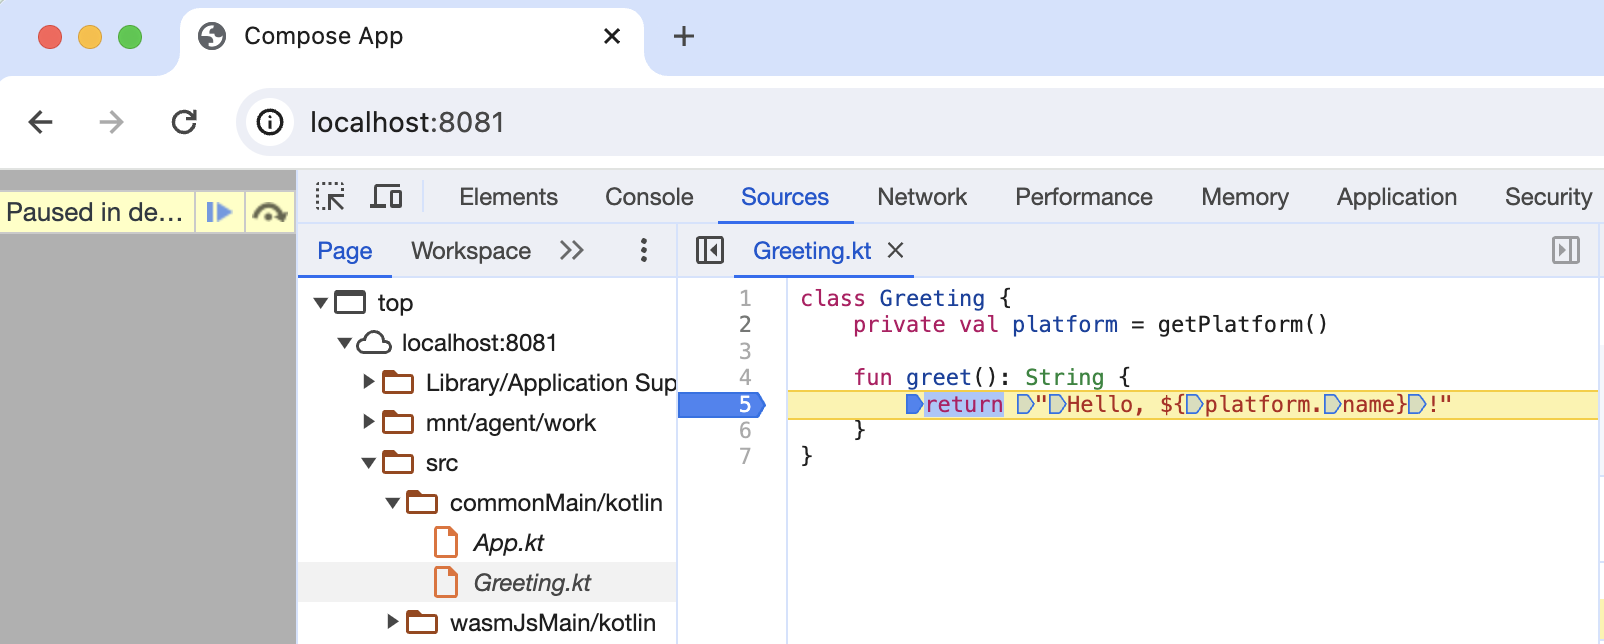
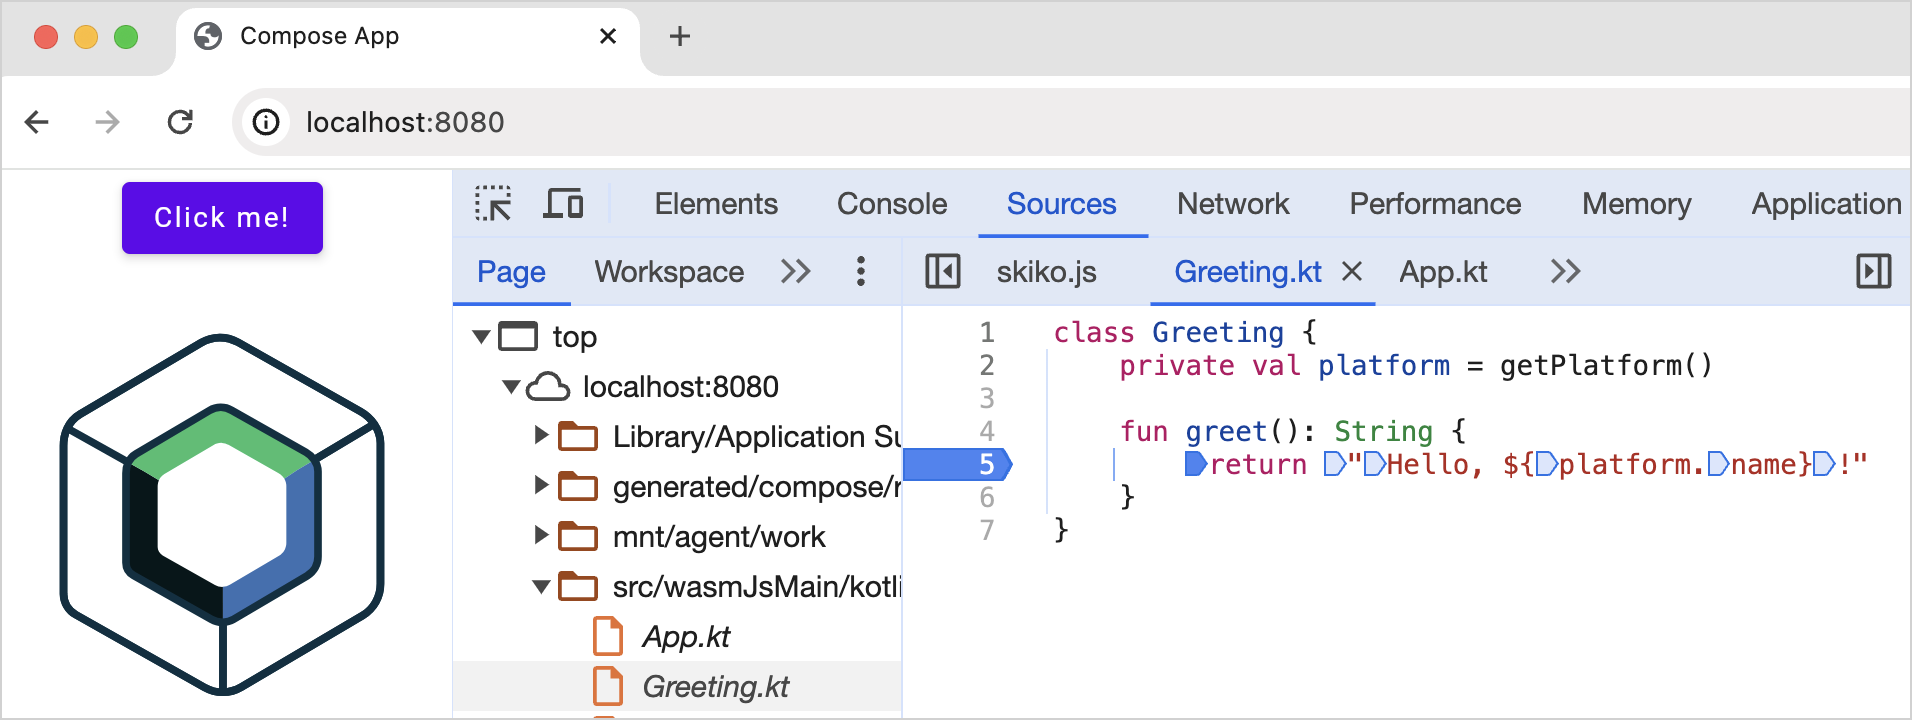
update: adding wizard to first section of debugging tutorial

Changed region(s): [[0.0, 0.0, 1.0, 1.0], [0.8105, 0.3727, 0.8416, 0.4037]]

diff --git a/docs/topics/wasm/wasm-debugging.md b/docs/topics/wasm/wasm-debugging.md
@@ -4,65 +4,60 @@
 >
 {type="note"}
 
-This tutorial demonstrates how to debug a web application built with Kotlin/Wasm, based on a 
-[Compose Multiplatform](https://www.jetbrains.com/lp/compose-multiplatform/) example from our 
-`kotlin-wasm-examples` [repository](https://github.com/Kotlin/kotlin-wasm-examples/tree/main).
+This tutorial demonstrates how to debug a [Compose Multiplatform](https://www.jetbrains.com/lp/compose-multiplatform/)
+application built with Kotlin/Wasm.
 
 ## Before you start
 
+Create a project using the Kotlin Multiplatform wizard:
+
+1. Open the [Kotlin Multiplatform wizard](https://kmp.jetbrains.com/#newProject).
+2. On the **New Project** tab, change the project name to "WasmDemo" and the project ID to "wasm.project.demo".
+3. Select the **Web** option.
+4. Click the **Download** button and unpack the resulting archive.
+
+![Kotlin Multiplatform wizard](wasm-compose-wizard.png){width=600}
+
+## Open the project in IntelliJ IDEA
+
 1. Download and install the latest version of [IntelliJ IDEA](https://www.jetbrains.com/idea/).
-2. Clone the [Kotlin/Wasm examples](https://github.com/Kotlin/kotlin-wasm-examples/) repository
-   by selecting **File** | **New** | **Project from Version Control** in IntelliJ IDEA.
-
-   You can also clone it from the command line:
-
-   ```bash
-   git clone git@github.com:Kotlin/kotlin-wasm-examples.git
-   ```
-
-> Alternatively, you can use our experimental [web wizard](https://kmp.jetbrains.com/) to download a sample project.
->
-{type="note"}
+2. On the Welcome screen of IntelliJ IDEA, click **Open** or select **File | Open** in the menu bar.
+3. Navigate to the unpacked "WasmDemo" folder and click **Open**.
 
 ## Run the application
 
-1. In IntelliJ IDEA, a **Gradle build scripts found** notification appears. Click **Load**. 
+1. In IntelliJ IDEA, open the **Gradle** tool window by selecting **View** | **Tool Windows** | **Gradle**.
 
-2. Open the **Gradle** tool window by selecting **View** | **Tool Windows** | **Gradle**.
-
-   > You need at least Java 11 as your Gradle JVM for the examples to load successfully.
+   > You need at least Java 11 as your Gradle JVM for the tasks to load successfully.
    >
    {type="note"}
 
-3. In **compose-example** | **Tasks** | **kotlin browser**, select and run the **wasmJsBrowserRun** task.
+2. In **composeApp** | **Tasks** | **kotlin browser**, select and run the **wasmJsBrowserRun** task.
 
-   ![Run the Gradle task](wasm-gradle-task-window.png){width=650}
+   ![Run the Gradle task](wasm-gradle-task-window.png){width=600}
 
-    You can also run the following command in the terminal from the `compose-example` directory:
+   Alternatively, you can run the following command in the terminal from the `WasmDemo` root directory:
 
    ```bash
    ./gradlew wasmJsBrowserRun
    ```
-   >Alternatively, you can load **compose-example** by opening it directly from the file explorer in **File | Open**.
-   >
-   {type="note"}
 
-4. Once the application starts, open the following URL in your browser:
+3. Once the application starts, open the following URL in your browser:
 
    ```bash
    http://localhost:8080/
    ```
-   
-   > The port number can vary because the 8080 port may be unavailable. You can find the actual port number printed 
+
+   >The port number can vary because the 8080 port may be unavailable. You can find the actual port number printed
    > in the Gradle build console.
    >
    {type="tip"}
 
-   You see a **Hello World!** button. Click it:
+   You can see a "Click me!" button. Click it:
 
-   ![Click hello world](wasm-composeapp-browser-hello.png){width=650}
+   ![Click me](wasm-composeapp-browser-clickme.png){width=650}
 
-   You see the Compose Multiplatform logo:
+   Now you can see the Compose Multiplatform logo:
 
    ![Compose app in browser](wasm-composeapp-browser.png){width=650}
 
@@ -74,29 +69,36 @@ This tutorial demonstrates how to debug a web application built with Kotlin/Wasm
 >
 {type="note"}
 
-You can debug this Compose Multiplatform application and the rest of the [Kotlin/Wasm examples](https://github.com/Kotlin/kotlin-wasm-examples/tree/main/compose-example)
-in your browser out of the box without additional configurations. However, for other projects, you may need to set the required configuration in the Gradle 
+You can debug this Compose Multiplatform application
+in your browser out of the box without additional configurations. 
+
+However, for other projects, you may need to set the required configuration in the Gradle 
 build file. For more information, see [Configuration for debugging](#configuration-for-debugging).
 
-For this tutorial, we are using Chrome. If you use a different browser, the experience should be similar and the following 
-steps should also work. 
+> For this tutorial, we are using Chrome. If you use a different browser, the experience should be similar and the following 
+> steps should also work. 
+> 
+{type="tip"}
 
 To debug a Kotlin/Wasm application:
 
 1. In the browser window of the application, access developer tools by right-clicking and selecting the **Inspect** action.
-Alternatively, you can use the **F12** shortcut.
+Alternatively, you can use the **F12** shortcut or select **View** | **Developer** | **Developer Tools**.
 
-2. Switch to the **Sources** tab and find the Kotlin file to debug.
+2. Switch to the **Sources** tab and select the Kotlin file to debug. In this tutorial, we'll work with the `Greeting.kt` file.
 
 3. Set breakpoints in the Kotlin file by clicking on the numbers of the code lines you want to inspect. Only the code lines 
 with darker numbers accept breakpoints.
 
 ![Set breakpoints](wasm-breakpoints.png){width=700}
 
-4. Interact with the application by clicking on the **Hello World!** button. This action triggers the execution of the 
-code, and the debugger pauses when execution reaches a breakpoint.
+4. Interact with the application by clicking on the **Click me!** button. This action triggers the execution of the 
+code, and the debugger pauses when the execution reaches a breakpoint.
 
-5. Inspect variables and code execution at the breakpoints by using the debugging control buttons (step over, step into, step out, and more).
+5. Inspect variables and code execution at the breakpoints by using debugging control buttons such as: 
+   * Step into to investigate a function deeper
+   * Step over to execute the current line and pause on the next line
+   * Step out to execute the code until it exits the current function
 
 ![Debug controls](wasm-debug-controls.png){width=700}
 
@@ -108,8 +110,8 @@ code, and the debugger pauses when execution reaches a breakpoint.
 
 ### Configuration for debugging
 
-By default, browsers lack access to the project sources necessary for debugging. You can configure the Webpack DevServer 
-to serve these sources by adding the following code snippet to the Gradle build file:
+By default, browsers lack access to the project sources necessary for debugging. To gain access, you can configure the Webpack DevServer 
+to serve these sources. Add the following code snippet to the Gradle build file inside the `ComposeApp` directory:
 
 ```kotlin
 // Add this line in the dependencies block
@@ -127,7 +129,7 @@ devServer = (devServer ?: KotlinWebpackConfig.DevServer()).apply {
 ```
 
 > Debugging sources of libraries is currently 
-> unavailable. [We are working to address this limitation](https://youtrack.jetbrains.com/issue/KT-64685).
+> unavailable. [We are working on addressing this limitation](https://youtrack.jetbrains.com/issue/KT-64685).
 >
 {type="note"}
 
@@ -139,8 +141,9 @@ devServer = (devServer ?: KotlinWebpackConfig.DevServer()).apply {
 ## What's next?
 
 * See Kotlin/Wasm debugging in action in this [YouTube video](https://www.youtube.com/watch?v=t3FUWfJWrjU&t=2703s).
-* Try other Kotlin/Wasm examples from the `kotlin-wasm-examples` repository:
+* Try the Kotlin/Wasm examples from our `kotlin-wasm-examples` repository:
    * [Compose image viewer](https://github.com/Kotlin/kotlin-wasm-examples/tree/main/compose-imageviewer)
    * [Jetsnack application](https://github.com/Kotlin/kotlin-wasm-examples/tree/main/compose-jetsnack)
    * [Node.js example](https://github.com/Kotlin/kotlin-wasm-examples/tree/main/nodejs-example)
    * [WASI example](https://github.com/Kotlin/kotlin-wasm-examples/tree/main/wasi-example)
+   * [Compose example](https://github.com/Kotlin/kotlin-wasm-examples/tree/main/compose-example)
